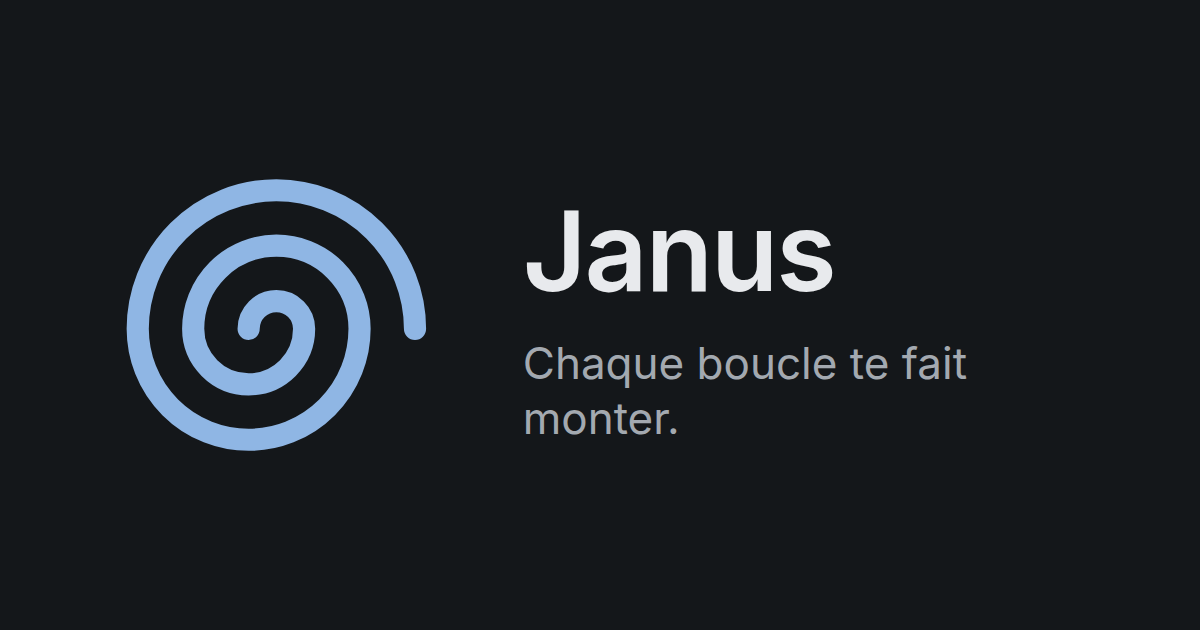
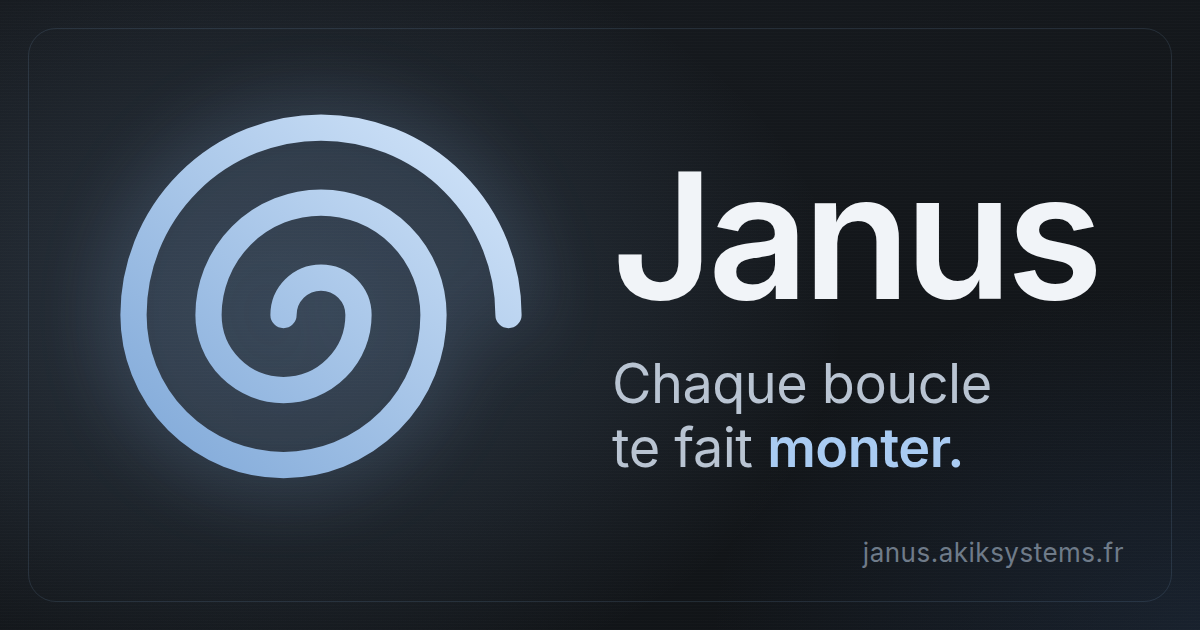
[PR-117] Image de partage premium
Claude-Session: https://claude.ai/code/session_01K3sZxBsH4apHhZr6f1nZEL

Changed region(s): [[0.0, 0.0905, 0.925, 0.8444], [0.7092, 0.8444, 0.925, 0.9048]]

diff --git a/apps/web/index.html b/apps/web/index.html
@@ -22,13 +22,13 @@
     <meta property="og:title" content="Janus" />
     <meta property="og:description" content="Chaque boucle te fait monter." />
     <meta property="og:url" content="https://janus.akiksystems.fr/" />
-    <meta property="og:image" content="https://janus.akiksystems.fr/og-image.png" />
+    <meta property="og:image" content="https://janus.akiksystems.fr/og-image.png?v=2" />
     <meta property="og:image:width" content="1200" />
     <meta property="og:image:height" content="630" />
     <meta name="twitter:card" content="summary_large_image" />
     <meta name="twitter:title" content="Janus" />
     <meta name="twitter:description" content="Chaque boucle te fait monter." />
-    <meta name="twitter:image" content="https://janus.akiksystems.fr/og-image.png" />
+    <meta name="twitter:image" content="https://janus.akiksystems.fr/og-image.png?v=2" />
     <!-- Applique le thème et la taille du texte enregistrés avant le premier affichage (pas de flash). -->
     <script>
       document.documentElement.dataset.theme = 'systeme'
